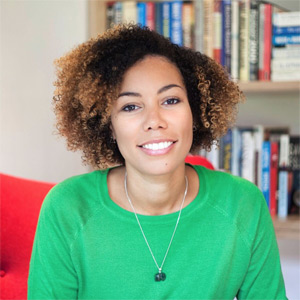
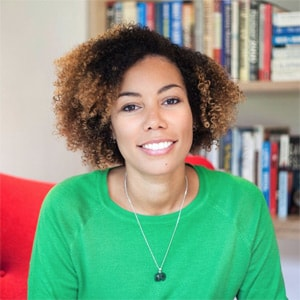
minifying, htaccess and compressed images

diff --git a/Modules/modals.html b/Modules/modals.html
@@ -18,7 +18,7 @@
                 their lives, pain, anger and shame may be difficult emotions to escape, and can make day-to-day living extremely difficult.
               <br><br>
                 Alexandra uses a client-led approach when working with individuals who have experienced trauma. She works gently and
-                compassionately to co-create a safe space for clients to begin to process what happened to them and its effect on their lives.
+                compassionately to co-create a safe space for clients to begin to process what has happened to them and its effect on their lives.
 
              </p>
            </div>
@@ -59,7 +59,7 @@
               Alexandra will help you to talk through how you are feeling and think with you about these feelings  in relation to the
               rest of your life. She will work with you to tailor the type of therapy you wish to receive. This may mean spending time
               exploring the possible origins or root of feelings of depression and anxiety, or it may mean creating a formulation of
-              the problem together and making a plan for how to, for example, reduce safety behaviours or become more active
+              the problem together and making a plan for how to, for example, reduce safety behaviours or become more active.
 
            </p>
       </div>
@@ -90,7 +90,7 @@
           <strong>Family, Relationships <br>& Interpersonal Problems</strong>
         </h4>
         <p class="copy px-3">
-          Many of us may have grown up with challenging family dynamics, and this in turn might have had a
+          Many of us may have grown up with challenging family dynamics, and this in turn might have had
           long lasting repercussions on our lives even today. Others of us might feel that we have always
           had strong bonds with family and loved ones, yet negotiating the demands and pressures of relationships
           can often be difficult.

diff --git a/JS/svg.js b/JS/svg.js
@@ -1,37 +1,1 @@
-
-
-$(function(){
-    jQuery('img.svg').each(function(){
-        var $img = jQuery(this);
-        var imgID = $img.attr('id');
-        var imgClass = $img.attr('class');
-        var imgURL = $img.attr('src');
-
-        jQuery.get(imgURL, function(data) {
-            // Get the SVG tag, ignore the rest
-            var $svg = jQuery(data).find('svg');
-
-            // Add replaced image's ID to the new SVG
-            if(typeof imgID !== 'undefined') {
-                $svg = $svg.attr('id', imgID);
-            }
-            // Add replaced image's classes to the new SVG
-            if(typeof imgClass !== 'undefined') {
-                $svg = $svg.attr('class', imgClass+' replaced-svg');
-            }
-
-            // Remove any invalid XML tags as per http://validator.w3.org
-            $svg = $svg.removeAttr('xmlns:a');
-
-            // Check if the viewport is set, else we gonna set it if we can.
-            if(!$svg.attr('viewBox') && $svg.attr('height') && $svg.attr('width')) {
-                $svg.attr('viewBox', '0 0 ' + $svg.attr('height') + ' ' + $svg.attr('width'))
-            }
-
-            // Replace image with new SVG
-            $img.replaceWith($svg);
-
-        }, 'xml');
-
-    });
-});
+$(function(){jQuery("img.svg").each(function(){var t=jQuery(this),r=t.attr("id"),a=t.attr("class"),i=t.attr("src");jQuery.get(i,function(i){var e=jQuery(i).find("svg");void 0!==r&&(e=e.attr("id",r)),void 0!==a&&(e=e.attr("class",a+" replaced-svg")),!(e=e.removeAttr("xmlns:a")).attr("viewBox")&&e.attr("height")&&e.attr("width")&&e.attr("viewBox","0 0 "+e.attr("height")+" "+e.attr("width")),t.replaceWith(e)},"xml")})});

diff --git a/JS/app.js b/JS/app.js
@@ -1,0 +1,18 @@
+//hero images
+jQuery(document).ready(function(e){function i(){jQuery(".hero").css({width:jQuery(window).width(),height:.98*jQuery(window).height()})}function h(){jQuery(".hero-2").css({width:jQuery(window).width(),height:jQuery(window).height()/1.8})}i(),h(),jQuery(window).resize(function(){i(),h()})});
+
+//google maps
+function initMap(){var n={lat:51.43421,lng:-.16276},o=new google.maps.Map(document.getElementById("map"),{center:n,zoom:14});new google.maps.Marker({position:n,map:o,animation:google.maps.Animation.DROP,title:""})}
+
+// SmoothScroll
+document.querySelectorAll('a[href^="#"]').forEach(anchor => {
+anchor.addEventListener('click', function (e) {
+e.preventDefault();
+document.querySelector(this.getAttribute('href')).scrollIntoView({
+behavior: 'smooth'
+});
+});
+});
+
+//svg images
+$(function(){jQuery("img.svg").each(function(){var t=jQuery(this),r=t.attr("id"),a=t.attr("class"),i=t.attr("src");jQuery.get(i,function(i){var e=jQuery(i).find("svg");void 0!==r&&(e=e.attr("id",r)),void 0!==a&&(e=e.attr("class",a+" replaced-svg")),!(e=e.removeAttr("xmlns:a")).attr("viewBox")&&e.attr("height")&&e.attr("width")&&e.attr("viewBox","0 0 "+e.attr("height")+" "+e.attr("width")),t.replaceWith(e)},"xml")})});

diff --git a/index.css b/index.css
@@ -1,9 +1,9 @@
 body {
-    font-family: 'Lato', sans-serif;
-	font-size: 20px;
+  font-family: 'Gudea', sans-serif;
+	   font-size: 20px;
     line-height: 150%;
     color: #333;
-	height: 100%:
+	   height: 100%:
 }
 
 a {
@@ -231,7 +231,7 @@ z-index: 0;
 /* ---- FONTS AND WEIGHTS ---- */
 
 .heading {
-	font-family: 'Lato', sans-serif;
+	font-family: 'Nunito Sans', sans-serif;
 	font-size: 2em;
 }
 .subheading {
@@ -241,6 +241,9 @@ p {
   line-height: 150%;
 }
 
+h1, h2, h3, h4, h5, h6 {
+font-family: 'Nunito Sans', sans-serif;
+}
 h2, h3 {
   padding-bottom: 20px;
   line-height: 150%;
@@ -448,8 +451,11 @@ width: 100px;
 
 }
   .hero-background {
-
       background-attachment:scroll;
+  }
+
+  #footer {
+    background-attachment: scroll;
   }
 
   .heading {
@@ -500,6 +506,10 @@ width: 100px;
   .hero-background {
       background-attachment:scroll;
   }
+  #footer {
+    background-attachment: scroll;
+  }
+
   .heading {
   	font-family: 'Lato', sans-serif;
   	font-size: 1.5em;

diff --git a/JS/hero.js b/JS/hero.js
@@ -1,24 +1,1 @@
-jQuery(document).ready(function ($) {
-
-function fullscreen() {
-  jQuery('.hero').css({
-    width: jQuery(window).width(),
-    height: jQuery(window).height()* 0.98});
-}
-
-function halfscreen() {
-  jQuery('.hero-2').css({
-    width: jQuery(window).width(),
-    height: jQuery(window).height()/1.8 });
-}
-
-fullscreen();
-halfscreen();
-
-// Run the function in case of window resize
-jQuery(window).resize(function () {
-  fullscreen();
-  halfscreen();
-});
-
-});
+jQuery(document).ready(function(e){function i(){jQuery(".hero").css({width:jQuery(window).width(),height:.98*jQuery(window).height()})}function h(){jQuery(".hero-2").css({width:jQuery(window).width(),height:jQuery(window).height()/1.8})}i(),h(),jQuery(window).resize(function(){i(),h()})});

diff --git a/JS/maps.js b/JS/maps.js
@@ -1,17 +1,1 @@
-
-function initMap() {
-	var myLatLng = {lat: 51.43421, lng: -0.16276};
-
-	var map = new google.maps.Map(document.getElementById('map'), {
-          center: myLatLng,
-          zoom: 14
-        });
-
-	var marker = new google.maps.Marker({
-          position: myLatLng,
-          map: map,
-		  animation: google.maps.Animation.DROP,
-          title: ''
-        });
-
-	}
+function initMap(){var n={lat:51.43421,lng:-.16276},o=new google.maps.Map(document.getElementById("map"),{center:n,zoom:14});new google.maps.Marker({position:n,map:o,animation:google.maps.Animation.DROP,title:""})}

diff --git a/Modules/quote.html b/Modules/quote.html
@@ -15,7 +15,7 @@
 								The counselling I've received has been interactive & tailored to my needs.
 							</strong>
 					</h2>
-					<footer class="mx-auto z-100 copy">-- Client Testimonial</footer>
+					<footer class="mx-auto z-100 position-relative copy">-- Client Testimonial</footer>
 					<i class="fa fa-quote-right z-1 mx icon-large-right " ></i>
 
 </blockquote>

diff --git a/Modules/footer.html b/Modules/footer.html
@@ -13,7 +13,13 @@
 				</strong>
 			</h4>
 			<p class=" copy-white" >
-				Counselling  &nbsp | &nbsp  Psychology  <span class="d-sm-none">&nbsp | &nbsp </span>  Psychotherapy
+				Counselling
+				&nbsp | &nbsp
+				Psychology
+				&nbsp
+				<span class="d-none d-sm-inline-block"> |  </span>
+				&nbsp
+				Psychotherapy
 			</p>
 		</div>
 	</div>

diff --git a/Modules/contact.html b/Modules/contact.html
@@ -43,7 +43,7 @@
 									<br class="d-sm-none ">  Phone:
 								</dt>
 								<dd class="col-sm-9">
-									<a href="tel:02086734545" target="_blank"> 020 8673 4545</a>
+									<a href="tel:02086734545" target="_blank">07407 108 263</a>
 								</dd>
 						</dl>
 

diff --git a/index.php b/index.php
@@ -13,20 +13,23 @@
 <meta name="keywords" content="Counselling, psychologist, London, Tooting, counsellor, psychology, psychotherapy, doctor, coaching, " />
 <meta name="robots" content="index, follow" />
 
+<!-- fonts -->
+<link href="https://fonts.googleapis.com/css?family=Gudea" rel="stylesheet">
+<link href="https://fonts.googleapis.com/css?family=Nunito+Sans" rel="stylesheet">
+<link href="https://fonts.googleapis.com/css?family=Fira+Sans" rel="stylesheet">
+
 <!-- css -->
 <link rel="stylesheet" href="https://stackpath.bootstrapcdn.com/bootstrap/4.1.3/css/bootstrap.min.css" integrity="sha384-MCw98/SFnGE8fJT3GXwEOngsV7Zt27NXFoaoApmYm81iuXoPkFOJwJ8ERdknLPMO" crossorigin="anonymous">
 <link rel="stylesheet" href="Bootstrap/css/bootstrap.css" >
 <link rel="stylesheet" href="https://maxcdn.bootstrapcdn.com/font-awesome/4.4.0/css/font-awesome.min.css">
 <link rel="shortcut icon" href="/favicon.ico" />
 <link rel="stylesheet" href="index.css">
-<link rel="stylesheet" href="https://fonts.googleapis.com/css?family=Lato" >
-<link rel="stylesheet" href="https://fonts.googleapis.com/css?family=Playfair+Display" >
-<link rel="stylesheet" href="https://use.fontawesome.com/releases/v5.2.0/css/all.css" integrity="sha384-hWVjflwFxL6sNzntih27bfxkr27PmbbK/iSvJ+a4+0owXq79v+lsFkW54bOGbiDQ" crossorigin="anonymous">
+<link rel="stylesheet" href="https://use.fontawesome.com/releases/v5.2.0/css/all.css" integrity="sha384-hWVjflwFxL6sNzntih27bfxkr27PmbbK/iSvJ+a4+0owXq79v+lsFkW54bOGbiDQ" crossorigin="anonymous" >
 <link rel="stylesheet"
   href="https://cdn.jsdelivr.net/npm/animate.css@3.5.2/animate.min.css">
   <!-- or -->
   <link rel="stylesheet"
-  href="https://cdnjs.cloudflare.com/ajax/libs/animate.css/3.5.2/animate.min.css">
+  href="https://cdnjs.cloudflare.com/ajax/libs/animate.css/3.5.2/animate.min.css" >
 <link rel="stylesheet" href="https://unpkg.com/aos@next/dist/aos.css" />
 
 <link rel="apple-touch-icon" sizes="57x57" href="images/favicons//apple-icon-57x57.png">
@@ -65,8 +68,6 @@
 
 <?php include 'Modules/fees.html'; ?>
 
-
-
 <?php include 'Modules/contact.html'; ?>
 
 <?php include 'Modules/footer.html';?>
@@ -77,24 +78,24 @@
 <script
   src="https://code.jquery.com/jquery-3.3.1.min.js"
   integrity="sha256-FgpCb/KJQlLNfOu91ta32o/NMZxltwRo8QtmkMRdAu8="
-  crossorigin="anonymous"></script>
+  crossorigin="anonymous"
+ async ></script>
 
 <!-- bootstrap js -->
-<script src="http://maxcdn.bootstrapcdn.com/bootstrap/4.1.3/js/bootstrap.min.js"  ></script>
+<script src="http://maxcdn.bootstrapcdn.com/bootstrap/4.1.3/js/bootstrap.min.js"   ></script>
 <script src="Bootstrap/js/bootstrap.min.js"  ></script>
 
+<!-- maps js -->
+<script src="https://maps.googleapis.com/maps/api/js?key=AIzaSyCym_SIY9EI_7UNVL3-FkLLE-yfVQ5VWwY&&callback=initMap" async ></script>
+
 <!-- app js -->
-<script type="text/javascript" src="JS/maps.js"></script>
-<script type="text/javascript" src="JS/hero.js"></script>
-<script type="text/javascript" src="JS/svg.js"></script>
-<script type="text/javascript" src="JS/smoothScroll.js"></script>
+<script type="text/javascript" src="JS/app.js" ></script>
 
-<script src="https://maps.googleapis.com/maps/api/js?key=AIzaSyCym_SIY9EI_7UNVL3-FkLLE-yfVQ5VWwY&&callback=initMap" ></script>
-
-<script src="https://unpkg.com/aos@next/dist/aos.js"></script>
-  <script>
-    AOS.init();
-  </script>
+<!-- animate on scroll -->
+<script src="https://unpkg.com/aos@next/dist/aos.js" ></script>
+<script>
+  AOS.init();
+</script>
 
 </body>
 </html>
